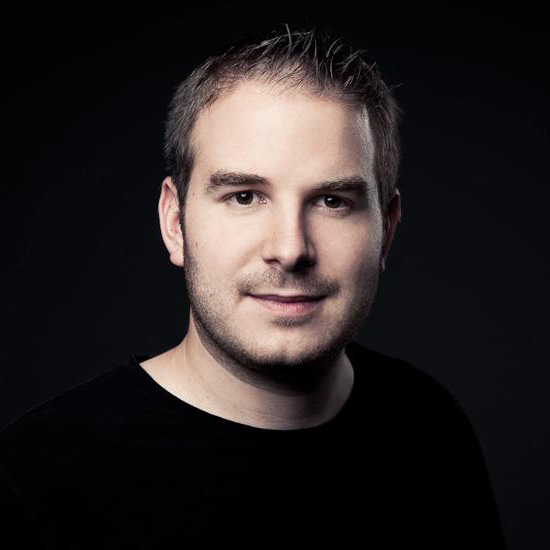
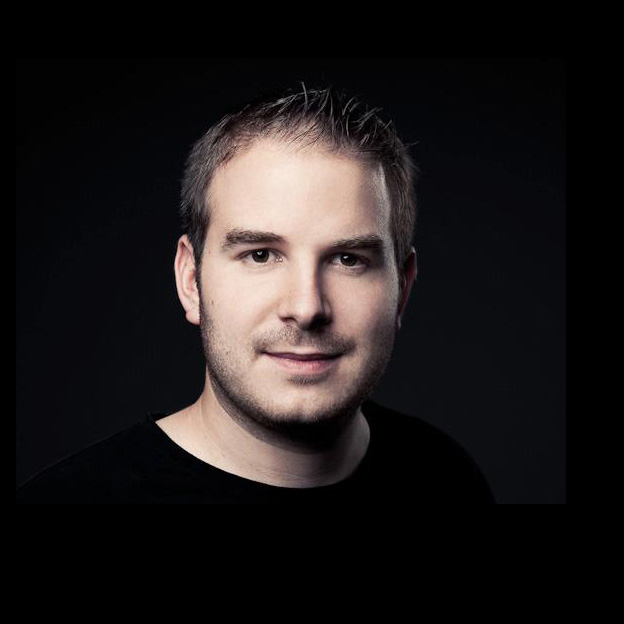
redesigned profile pictures

Changed region(s): [[0.2473, 0.0309, 0.7418, 0.8036]]

diff --git a/presentation/siemens/index.html b/presentation/siemens/index.html
@@ -66,7 +66,7 @@
                         <h2>Jürg Hunziker</h2>
                         <div class="textpic">
                             <div class="picture">
-                                <div class="poloraid"><img src="../resources/images/tschortsch.jpg" /></div>
+                                <div class="circular tschortsch"></div>
                                 <div class="logo-winterthur"><a href="http://stadt.winterthur.ch" target="_blank"><img src="../resources/images/logo-winterthur.gif" /></a></div>
                             </div>
                             <ul class="text">
@@ -82,7 +82,7 @@
                         <h2>Stefan Oderbolz</h2>
                         <div class="textpic">
                             <div class="picture">
-                                <div class="poloraid"><img src="../resources/images/odi.jpg" /></div>
+                                <div class="circular odi"></div>
                                 <div class="logo-liip"><a href="http://www.liip.ch" target="_blank"><img src="../resources/images/logo-liip.png" /></a></div>
                             </div>
                             <ul class="text">

diff --git a/presentation/resources/styles/styles.scss b/presentation/resources/styles/styles.scss
@@ -376,6 +376,22 @@ $selectionColor: #fff;
     }
 }
 
+.reveal .circular {
+    width: 180px;
+    height: 180px;
+    border-radius: 90px;
+    margin-bottom: 0.5em;
+
+    &.tschortsch {
+        background: url('../images/tschortsch.jpg') no-repeat;
+        background-size: 200px;
+    }
+    &.odi {
+        background: url('../images/odi.jpg') no-repeat;
+        background-size: 200px;
+    }
+}
+
 /* ------------------------
  * Title
  * ------------------------ */
